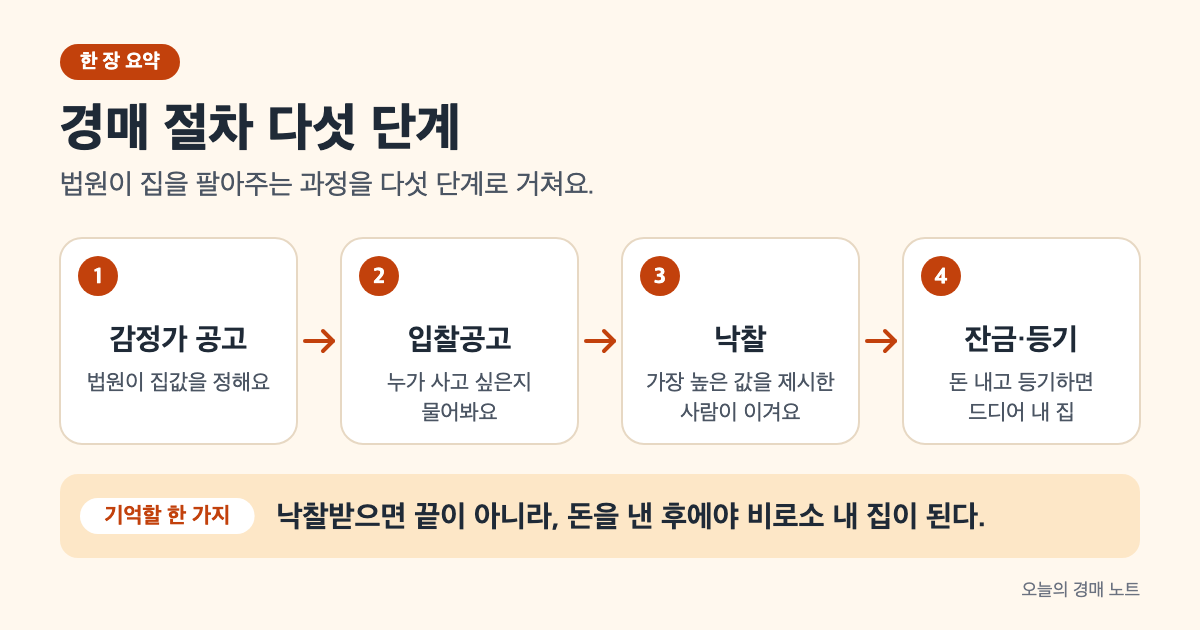
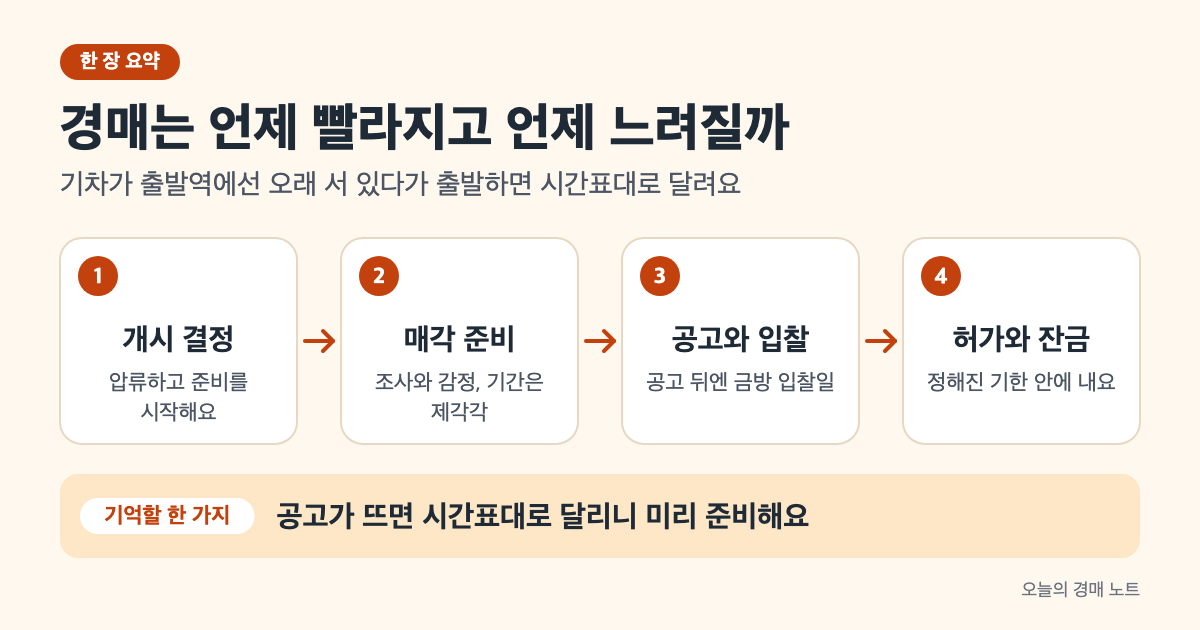
가이드 정리: 경매 절차 기간 — 잘못된 조문 인용 바로잡고 실제 기일 기록으로 재작성

diff --git a/content/guide/real-estate-auction-process/index.md b/content/guide/real-estate-auction-process/index.md
@@ -2,109 +2,105 @@
 title: 경매 절차, 얼마나 걸릴까
 author: rich-batch
 date: 2026-09-19
-lastmod: 2026-09-19
+lastmod: 2026-10-11
 draft: true
 volatile: false
 categories: ["경매 절차"]
-tags: [경매 절차, 부동산 경매, 매각기일, 낙찰, 잔금, 명도, 타임라인]
-description: 경매는 감정가 공고부터 등기까지 최소 2~3개월 걸리며, 각 단계마다 놓치면 안 될 기한이 있습니다.
+tags: [경매 절차, 부동산 경매, 매각기일, 배당요구종기, 매각허가결정, 대금지급기한, 타임라인]
+description: 법원 경매는 경매개시결정부터 첫 매각기일까지 법정 기한이 없어 몇 달이 걸리고, 매각공고부터 잔금까지는 법이 정한 기한으로 움직입니다. 단계별 기한을 조문과 실제 사건의 기일 기록으로 봅니다.
 cover:
   image: "eli5-overview.png"
-  alt: "부동산 경매 절차를 감정가 공고부터 소유권 등기까지 다섯 단계로 보여주는 타임라인"
-  caption: "낙찰받으면 끝이 아니라, 돈을 낸 후 등기가 완성되어야 비로소 내 집이 된다."
+  alt: "경매개시결정, 매각 준비, 매각공고와 입찰, 허가 확정과 잔금의 네 단계를 시간 순서로 이은 흐름도"
+  caption: "앞쪽 준비 기간은 사건마다 다르고, 공고 이후는 법이 정한 기한으로 움직입니다"
 showToc: true
 TocOpen: true
 ---
 
-경매를 결심했을 때 제일 먼저 나는 질문은 "언제쯤 그 집에 들어갈 수 있을까?"입니다. 감정가가 나오는 데 며칠, 입찰 공고부터 입찰까지 며칠, 그 사이사이에 뭘 해야 하는지 모르면 기회를 놓칩니다. 자신도 모르게 중요한 기한을 지나가기도 합니다. 이 글의 수치는 2026년 9월 19일 기준 법령 원문으로 확인했습니다.
+법원 경매의 시간표는 두 부분으로 나뉩니다. 경매개시결정부터 첫 매각기일까지는 법에 정해진 기간이 없어 사건마다 몇 달씩 걸리고, 매각공고가 나온 뒤부터 잔금까지는 법이 정한 기한대로 움직여요. 입찰자가 신경 써야 할 건 뒤쪽입니다. 공고는 매각기일 2주 전까지 나오고([민사집행규칙 제56조](https://www.law.go.kr/법령/민사집행규칙/제56조)), 낙찰되면 매각허가결정 확정 후 1개월 안에 잔금을 내야 하거든요([민사집행규칙 제78조](https://www.law.go.kr/법령/민사집행규칙/제78조)).
 
-경매는 여러 단계가 정해진 순서대로 진행되는데, 각 단계마다 법원이 정한 기간이 있습니다. 감정가가 결정되는 단계 → 입찰이 가능해지는 단계 → 낙찰 → 잔금 → 등기·명도까지, 각각에 기한이 정해져 있다는 뜻입니다. 이 기간들을 타임라인으로 정리하면 지금 어디 단계인지, 다음에 뭘 준비해야 하는지가 명확해집니다.
+이 글은 2026년 10월 11일 기준 법령 원문과, 이 블로그가 법원경매정보에서 조회한 실제 사건의 기일 기록으로 단계마다 걸리는 시간을 정리했습니다. 유찰이 거듭되면 회차마다 몇 주씩 늘어나는 것도 실제 기록으로 보여 드릴게요.
 
 > **핵심 요약**
-> - 경매는 감정가 공고부터 등기까지 최소 2~3개월 소요되며([민사집행규칙 제36조](https://www.law.go.kr/법령/민사집행규칙/제36조), [제53조](https://www.law.go.kr/법령/민사집행규칙/제53조))
-> - 각 단계별로 이 일을 반드시 해야 하는 시점이 있고, 놓치면 다음 단계가 뒤로 밀립니다
-> - "낙찰받았으니 이제 내 것"이 아니라 잔금을 낸 뒤 등기가 완성되어야 법적 소유자가 됩니다([민사집행법 제135조](https://www.law.go.kr/법령/민사집행법/제135조))
+> - 매각공고(매각기일 2주 전) → 매각결정기일(1주 안) → 즉시항고 기간(1주) → 잔금(확정 후 1개월 안) 순서라, 첫 회차에 낙찰되면 공고부터 잔금까지 대략 2개월 안팎입니다([민사집행법 제109조](https://www.law.go.kr/법령/민사집행법/제109조) · [민사집행규칙 제78조](https://www.law.go.kr/법령/민사집행규칙/제78조)).
+> - 유찰되면 최저가를 낮춰 새 기일을 잡으니 회차마다 시간이 더해집니다([민사집행법 제119조](https://www.law.go.kr/법령/민사집행법/제119조)).
 
-## 감정가가 나올 때까지, 최소 2주
+## 경매개시결정부터 첫 매각기일까지: 정해진 기간이 없다
 
-경매의 맨 처음은 감정평가입니다. 법원이 부동산을 경매에 부치면 감정평가사가 나가 그 집의 값어치를 정합니다. 이 감정가가 나온 후 법원은 최소 2주 동안 그 감정가를 공고해야 합니다([민사집행규칙 제36조](https://www.law.go.kr/법령/민사집행규칙/제36조)). 이것을 "감정가 공고 기간"이라고 부르는데, 이 기간이 끝나야 다음 단계인 입찰 공고가 가능해집니다.
+경매는 법원이 경매개시결정을 하면서 부동산을 압류하는 데서 시작합니다([민사집행법 제83조](https://www.law.go.kr/법령/민사집행법/제83조)). 법원사무관은 바로 그 사실을 등기부에 기입하도록 촉탁하고([민사집행법 제94조](https://www.law.go.kr/법령/민사집행법/제94조)), 법원은 첫 매각기일 이전으로 배당요구의 종기를 정해 공고해요([민사집행법 제84조](https://www.law.go.kr/법령/민사집행법/제84조)).
 
-물건을 찾는 입장에서는 법원경매정보나 온비드를 자주 들여다보다가 눈에 띄는 물건이 있으면, 그 물건은 이미 감정가 공고를 지난 상태일 겁니다. 매각기일 공고문을 읽을 때는 이미 다음 단계 준비가 막 시작되는 시점이라는 뜻입니다.
+그다음 법원은 집행관에게 현황조사를 명하고([민사집행법 제85조](https://www.law.go.kr/법령/민사집행법/제85조)), 감정인에게 평가를 맡겨 최저매각가격을 정합니다([민사집행법 제97조](https://www.law.go.kr/법령/민사집행법/제97조)). 이 준비 단계에는 법정 기간이 없어서 사건마다 걸리는 시간이 크게 달라요. 입찰자가 물건을 처음 보게 되는 건 이 준비가 다 끝나고 매각공고가 나온 뒤입니다.
 
-## 입찰 공고부터 입찰까지, 최소 3주
+## 매각공고부터 입찰까지: 2주
 
-감정가 공고 기간이 끝나면 법원은 입찰 공고를 합니다. 입찰 공고부터 실제 입찰이 가능해지는 시점까지는 최소 3주가 지나야 합니다([민사집행규칙 제53조](https://www.law.go.kr/법령/민사집행규칙/제53조)). 이 기간 동안 입찰에 참여하려는 사람들이 물건을 봐야 하고, 등기부·용도지역·명도 가능성 등을 확인해야 한다는 뜻입니다.
+공고가 나오면 시계가 빨라집니다. 법원은 매각기일 2주 전까지 공고해야 하고([민사집행규칙 제56조](https://www.law.go.kr/법령/민사집행규칙/제56조)), 매각물건명세서·현황조사보고서·감정평가서 사본은 1주 전까지 비치해야 해요([민사집행규칙 제55조](https://www.law.go.kr/법령/민사집행규칙/제55조)). 공고를 본 날부터 입찰일까지 길어야 2주 남짓이고, 그 안에 서류를 읽고 현장을 보고 자금 계획까지 세워야 합니다.
 
-기간입찰인 경우 입찰 기간이 추가로 1주~1개월 더 주어집니다([민사집행규칙 제69조](https://www.law.go.kr/법령/민사집행규칙/제69조)). 예를 들어 9월 1일에 입찰 공고가 나면, 9월 22일부터 입찰이 가능합니다. 기간입찰이라면 9월 22일부터 10월 22일까지 한 달간 입찰표를 낼 수 있고, 기일입찰이라면 9월 22일 하루에만 입찰을 받습니다.
+입찰 방식에 따라 일정이 조금 다릅니다. 기일입찰은 매각기일 당일 법정에서 입찰하고 바로 개찰해요. 기간입찰은 1주 이상 1개월 이하의 입찰기간을 두고, 매각기일은 그 기간이 끝난 뒤 1주 안의 날로 정합니다([민사집행규칙 제68조](https://www.law.go.kr/법령/민사집행규칙/제68조)). 기간입찰의 입찰표는 봉투에 넣어 집행관에게 내거나 등기우편으로 보내요([민사집행규칙 제69조](https://www.law.go.kr/법령/민사집행규칙/제69조)).
 
-이 기간은 단순히 기다리는 시간이 아니라 결정하는 시간입니다. 물건을 보고, 주변을 돌아봐야 합니다. [경험 추가 필요: 등기부에서 확인했던 임차권 정보와 판단 과정]. 입찰가를 정하는 모든 일이 이 3주 사이에 끝나야 합니다.
+## 낙찰부터 잔금까지: 법이 정한 순서
 
-## 입찰에서 개찰까지, 당일 또는 기간별 진행
+최고가매수신고인이 정해지면 다음은 법이 순서를 정해 둔 구간입니다.
 
-입찰은 두 가지 방식이 있습니다([민사집행규칙 제68조](https://www.law.go.kr/법령/민사집행규칙/제68조), [제69조](https://www.law.go.kr/법령/민사집행규칙/제69조)).
+| 단계 | 기한 | 근거 |
+|---|---|---|
+| 매각결정기일 | 매각기일부터 1주 이내 | 민사집행법 제109조 |
+| 매각허가결정 확정 | 즉시항고 없으면 고지일부터 1주 지나 확정 | 민사집행법 제15조·제126조 |
+| 대금지급기한 | 확정일부터 1개월 안의 날로 법원이 지정 | 민사집행법 제142조, 민사집행규칙 제78조 |
+| 소유권 취득 | 매각대금을 다 낸 때 | 민사집행법 제135조 |
+| 인도명령 신청 | 대금 납부 후 6개월 이내 | 민사집행법 제136조 |
 
-**기일입찰**: 매각기일이라는 정해진 날에 법원에 출석해 입찰표를 직접 내고, 그 자리에서 바로 개찰하는 방식입니다. 아침에 입찰표를 내면 그 자리에서 누가 최고가를 썼는지 알게 됩니다.
+출처: [민사집행법 제109조](https://www.law.go.kr/법령/민사집행법/제109조) · [제15조](https://www.law.go.kr/법령/민사집행법/제15조) · [제126조](https://www.law.go.kr/법령/민사집행법/제126조) · [제142조](https://www.law.go.kr/법령/민사집행법/제142조) · [민사집행규칙 제78조](https://www.law.go.kr/법령/민사집행규칙/제78조) · [민사집행법 제135조](https://www.law.go.kr/법령/민사집행법/제135조) · [제136조](https://www.law.go.kr/법령/민사집행법/제136조) (2026년 10월 11일 기준)
 
-**기간입찰**: 정해진 기간([1주~1개월](https://www.law.go.kr/법령/민사집행규칙/제69조)) 동안 입찰표를 직접 내거나 등기우편으로 보내면, 기간이 끝난 뒤 정해진 매각기일에 법원에서 개찰하는 방식입니다([민사집행규칙 제69조](https://www.law.go.kr/법령/민사집행규칙/제69조)). 입찰표를 냈어도 개찰 결과는 나중에 나옵니다.
+이 기한을 이으면 첫 회차에 낙찰된 경우의 대략적인 시간표가 나옵니다. 공고에서 매각기일까지 2주, 매각결정기일까지 1주, 항고 기간 1주, 그 뒤 잔금까지 1개월 안이라 공고부터 잔금까지 2개월 안팎이에요. 잔금을 내는 순간 소유권을 얻고, 등기는 법원이 촉탁하니 매수인이 등기소에 갈 필요는 없습니다([민사집행법 제144조](https://www.law.go.kr/법령/민사집행법/제144조)). 점유자가 있으면 그때부터 인도명령 기한 6개월이 흐르기 시작하고요.
 
-어느 방식인지는 매각기일 공고문에 명시되어 있으니, 입찰 공고를 받으면 제일 먼저 기일입찰인지 기간입찰인지 확인하는 게 첫 단계입니다. 입찰 방식에 따라 준비 기간이 완전히 달라지기 때문입니다.
+## 실제 사건으로 보면: 유찰이 시간을 늘린다
 
-## 낙찰 후 잔금까지, 얼마나 될까
+법정 기한은 최소한의 틀일 뿐, 실제 사건은 훨씬 오래 걸립니다. 서울 구로구 오류동의 한 아파트 강제경매(서울남부지방법원 2025타경10947) 기일 기록을 보면 이렇습니다([법원경매정보](https://www.courtauction.go.kr/)).
 
-이게 가장 많이 헷갈리는 구간입니다. 개찰이 끝나고 최고가를 쓴 사람(최고가매수신고인)이 결정되면, 그 사람은 정해진 기한까지 잔금을 내야 합니다. 이 기한은 법령에서 "정부고시 기간"으로 정해져 있는데([민사집행법 제142조](https://www.law.go.kr/법령/민사집행법/제142조)), 일반적으로는 매각기일부터 약 1개월 내외입니다.
+| 시점 | 일어난 일 | 최저매각가격 |
+|---|---|---|
+| 2025년 7월 14일 | 경매개시결정 | — |
+| 2025년 10월 14일 | 배당요구 종기 | — |
+| 2026년 3월 18일 | 1회차 매각기일, 유찰 | 3억 500만 원 |
+| 2026년 4월~10월 | 4월 23일, 6월 9일, 7월 23일, 8월 26일, 10월 1일 모두 유찰 | 회차마다 20%씩 낮아져 9,994만 2천 원까지 |
+| 2026년 11월 4일 | 7회차 매각기일 예정 | 7,995만 4천 원 |
 
-잔금을 내는 방법은 여러 가지입니다. 현금을 직접 내기, 은행 계좌로 송금하기, 경락잔금대출을 받아 내기 등이 있습니다. 중요한 건 이 기한을 놓치면 안 된다는 점입니다. 잔금을 못 내면 앞서 낸 보증금이 몰수되고, 물건은 재매각 절차로 들어갑니다([민사집행법 제138조](https://www.law.go.kr/법령/민사집행법/제138조)).
+출처: [법원경매정보](https://www.courtauction.go.kr/) 서울남부지방법원 2025타경10947 기일 내역 (2026년 10월 11일 기준)
 
-> **주의** 낙찰받은 후 "이제 내 것"이라고 생각하기 쉽지만, 실제로 법적 소유자가 되려면 잔금을 다 낸 뒤 소유권 등기가 끝나야 합니다([민사집행법 제135조](https://www.law.go.kr/법령/민사집행법/제135조)). 잔금을 내는 것도 중요하지만, 그 다음 등기까지 완성되어야 비로소 끝입니다.
-
-## 잔금 낸 후 소유권 등기까지
-
-잔금을 내고 나면 두 가지가 동시에 진행됩니다. 하나는 법원의 등기 절차이고, 다른 하나는 점유자를 내보내는(명도) 절차입니다.
-
-**등기**: 잔금을 내면 법원에서 등기소에 소유권 등기를 신청합니다. 일반적으로 [1~2주](https://www.law.go.kr/법령/민사집행법/제135조) 정도면 등기가 완성되지만, 등기소의 업무량에 따라 달라질 수 있습니다.
-
-**명도**: 그 집에 이미 살고 있는 사람이 있으면 저절로 나가지 않습니다. 매수인이 대금을 낸 뒤 6개월 안에 법원에 인도명령을 신청해야 합니다([민사집행법 제136조](https://www.law.go.kr/법령/민사집행법/제136조)). 인도명령이 나면 점유자를 강제로 내보낼 수 있지만, 점유자가 대항력 있는 임차인이라면 인도명령 자체가 통하지 않을 수 있습니다. 이 경우 별도의 명도소송을 진행해야 합니다.
-
-| 단계 | 기간/기한 | 해야 할 일 | 근거 |
-|---|---|---|---|
-| 1. 감정가 공고 | 최소 2주 | 감정가 확인, 물건 파악 | [민사집행규칙 제36조](https://www.law.go.kr/법령/민사집행규칙/제36조) |
-| 2. 입찰 공고~입찰 | 최소 3주 | 물건 확인, 등기부 검토, 입찰가 결정 | [민사집행규칙 제53조](https://www.law.go.kr/법령/민사집행규칙/제53조) |
-| 3. 입찰 방식별 진행 | 기일: 당일 / 기간: [1주~1개월](https://www.law.go.kr/법령/민사집행규칙/제69조) | 입찰 실행, 개찰 | [민사집행규칙 제68조](https://www.law.go.kr/법령/민사집행규칙/제68조), [제69조](https://www.law.go.kr/법령/민사집행규칙/제69조) |
-| 4. 낙찰~잔금 | 약 1개월(정부고시 기간) | 자금 준비, 잔금 납입 | [민사집행법 제142조](https://www.law.go.kr/법령/민사집행법/제142조) |
-| 5. 소유권 등기 | [1~2주](https://www.law.go.kr/법령/민사집행법/제135조) | 등기 완성 기다리기 | [민사집행법 제135조](https://www.law.go.kr/법령/민사집행법/제135조) |
-
-출처: [민사집행규칙](https://www.law.go.kr/법령/민사집행규칙/제36조), [민사집행법](https://www.law.go.kr/법령/민사집행법/제135조) (2026년 9월 19일 기준)
-
-## 다음 단계별로 확인할 것
-
-지금 단계가 어디인지 확인하고 다음을 준비하세요. 감정가 공고가 나왔다면 입찰 공고를 기다리면서 물건을 봐야 하고, 입찰 공고가 나왔다면 입찰 방식을 확인한 후 입찰 표 양식을 받아야 합니다. 낙찰받았다면 잔금 기한을 확인하고 자금 계획을 세워야 합니다. 각 단계마다 놓치면 안 될 일이 정해져 있고, 법원은 이 기한들을 정해진 대로만 진행합니다.
+경매개시결정에서 첫 매각기일까지 8개월이 걸렸고, 그 뒤로 유찰 한 번에 5~7주씩 더해졌어요. 유찰되면 법원이 최저가를 낮춰 새 기일을 정하기 때문입니다([민사집행법 제119조](https://www.law.go.kr/법령/민사집행법/제119조)). 이 물건은 매각물건명세서에 매수인에게 대항할 수 있는 주택임차권등기가 있다고 적혀 있었는데, 배당에서 다 못 받은 보증금을 낙찰자가 떠안을 수 있는 물건이라 여섯 번 연속 아무도 입찰하지 않은 것으로 보여요.
 
 ## 자주 묻는 질문
 
-### Q. 감정가 공고부터 낙찰받기까지 보통 얼마나 걸리나요?
-감정가 공고 최소 2주 + 입찰 공고부터 입찰까지 최소 3주 + 입찰 방식별 진행 기간(기일입찰은 당일, 기간입찰은 1주~1개월)을 합치면 최소 5주부터 최대 2개월 정도입니다([민사집행규칙 제36조](https://www.law.go.kr/법령/민사집행규칙/제36조), [제53조](https://www.law.go.kr/법령/민사집행규칙/제53조)). 공고 기간을 연장하거나 유찰되어 재매각되는 경우도 있으니, 법원경매정보에서 매각기일 공고문으로 정확한 일정을 확인하세요.
+### Q. 경매가 시작되고 나서 입찰까지 보통 얼마나 걸리나요?
 
-### Q. 낙찰받고 나서 그 집에 들어갈 수 있는 건 언제인가요?
-잔금을 낸 후 소유권 등기가 완성되면 법적으로는 그 집의 주인이 됩니다([민사집행법 제135조](https://www.law.go.kr/법령/민사집행법/제135조)). 다만 점유자가 있다면 인도명령을 신청해 확정된 후에야 강제로 내보낼 수 있고, 점유자가 대항력 있는 임차인이라면 더 오래 걸릴 수 있습니다([민사집행법 제136조](https://www.law.go.kr/법령/민사집행법/제136조)).
+법에 정해진 기간은 없습니다. 경매개시결정 뒤 현황조사와 감정, 배당요구 종기를 거쳐 첫 매각기일이 잡히는데([민사집행법 제84조](https://www.law.go.kr/법령/민사집행법/제84조)), 위 오류동 사건은 8개월이 걸렸어요. 입찰자 입장에서 중요한 건 공고가 나온 뒤 2주라는 점입니다.
 
-### Q. 기일입찰과 기간입찰 중 어느 쪽이 낫나요?
-둘 다 장단점이 있습니다. 기일입찰은 당일 개찰되어 빠르지만, 법원에 직접 출석해야 합니다. 기간입찰은 우편으로 보낼 수 있지만, 기간이 길어서 마음이 바뀌거나 기한을 놓치기 쉽습니다. 자신의 상황에 맞춰 선택하면 됩니다([민사집행규칙 제68조](https://www.law.go.kr/법령/민사집행규칙/제68조), [제69조](https://www.law.go.kr/법령/민사집행규칙/제69조)).
+### Q. 낙찰받고 나서 잔금까지는 얼마나 여유가 있나요?
 
-### Q. 잔금 기한을 못 지키면 어떻게 되나요?
-잔금 기한을 못 지키면 앞서 낸 보증금은 몰수되고, 그 물건은 재매각 절차로 진행됩니다([민사집행법 제138조](https://www.law.go.kr/법령/민사집행법/제138조)). 재매각에서 떨어진 금액이 처음 낙찰가보다 적으면 그 차액을 내야 할 수도 있습니다. 입찰 전에 반드시 잔금 자금을 확보하세요.
+매각기일부터 매각결정기일까지 1주 안, 그 결정이 확정되기까지 항고가 없으면 1주, 확정일부터 1개월 안의 대금지급기한까지예요([민사집행법 제109조](https://www.law.go.kr/법령/민사집행법/제109조) · [민사집행규칙 제78조](https://www.law.go.kr/법령/민사집행규칙/제78조)). 대출을 받는다면 심사를 이 안에 끝내야 하니, 낙찰 전에 사전 상담을 받아 두는 게 안전합니다.
 
-### Q. 등기까지 완성되는 데 보통 얼마나 걸리나요?
-소유권 등기는 일반적으로 잔금 납입 후 1~2주 정도면 완성됩니다. 다만 등기소의 업무량이나 특수한 권리(채무, 가등기 등)가 있으면 더 오래 걸릴 수 있습니다. 명도가 필요한 경우 인도명령까지 별도로 1~3개월이 더 소요될 수 있습니다([민사집행법 제136조](https://www.law.go.kr/법령/민사집행법/제136조)).
+### Q. 잔금을 못 내면 어떻게 되나요?
+
+차순위매수신고인이 없으면 법원이 재매각을 명하고, 전 매수인은 재매각에 입찰할 수 없으며 보증금도 돌려받지 못합니다([민사집행법 제138조](https://www.law.go.kr/법령/민사집행법/제138조)). 재매각기일 3일 전까지 대금과 지연이자, 절차비용을 내면 재매각이 취소되긴 해요.
 
 ## 참고 자료
 
-- [민사집행규칙 제36조](https://www.law.go.kr/법령/민사집행규칙/제36조) — 감정가 공고 기간(최소 2주), 현행 시행 2026-02-01 (2026-09-19 확인)
-- [민사집행규칙 제53조](https://www.law.go.kr/법령/민사집행규칙/제53조) — 입찰 공고부터 입찰까지 기간(최소 3주), 현행 시행 2026-02-01 (2026-09-19 확인)
-- [민사집행규칙 제62조](https://www.law.go.kr/법령/민사집행규칙/제62조) — 입찰표 작성·제출, 현행 시행 2026-02-01 (2026-09-19 확인)
-- [민사집행규칙 제63조](https://www.law.go.kr/법령/민사집행규칙/제63조) — 입찰 보증금(최저매각가격의 1/10), 현행 시행 2026-02-01 (2026-09-19 확인)
-- [민사집행규칙 제68조](https://www.law.go.kr/법령/민사집행규칙/제68조) — 기일입찰, 현행 시행 2026-02-01 (2026-09-19 확인)
-- [민사집행규칙 제69조](https://www.law.go.kr/법령/민사집행규칙/제69조) — 기간입찰, 현행 시행 2026-02-01 (2026-09-19 확인)
-- [민사집행법 제135조](https://www.law.go.kr/법령/민사집행법/제135조) — 매수인의 소유권 취득(매각대금 완납 시), 현행 시행 2026-02-01 (2026-09-19 확인)
-- [민사집행법 제136조](https://www.law.go.kr/법령/민사집행법/제136조) — 인도명령, 현행 시행 2026-02-01 (2026-09-19 확인)
-- [민사집행법 제138조](https://www.law.go.kr/법령/민사집행법/제138조) — 낙찰자의 불이행 시 재매각, 현행 시행 2026-02-01 (2026-09-19 확인)
-- [민사집행법 제142조](https://www.law.go.kr/법령/민사집행법/제142조) — 잔금 기한(정부고시 기간), 현행 시행 2026-02-01 (2026-09-19 확인)
+- [민사집행법 제15조 · 즉시항고](https://www.law.go.kr/법령/민사집행법/제15조) — 고지일부터 1주 (2026-10-11 확인)
+- [민사집행법 제83조 · 경매개시결정 등](https://www.law.go.kr/법령/민사집행법/제83조) — 개시결정과 압류 (2026-10-11 확인)
+- [민사집행법 제84조 · 배당요구의 종기결정 및 공고](https://www.law.go.kr/법령/민사집행법/제84조) — 첫 매각기일 이전으로 종기 결정 (2026-10-11 확인)
+- [민사집행법 제85조 · 현황조사](https://www.law.go.kr/법령/민사집행법/제85조) — 집행관 현황조사 (2026-10-11 확인)
+- [민사집행법 제94조 · 경매개시결정의 등기](https://www.law.go.kr/법령/민사집행법/제94조) — 등기 촉탁 (2026-10-11 확인)
+- [민사집행법 제97조 · 최저매각가격의 결정](https://www.law.go.kr/법령/민사집행법/제97조) — 감정인 평가 참작 (2026-10-11 확인)
+- [민사집행법 제109조 · 매각결정기일](https://www.law.go.kr/법령/민사집행법/제109조) — 매각기일부터 1주 이내 (2026-10-11 확인)
+- [민사집행법 제119조 · 새 매각기일](https://www.law.go.kr/법령/민사집행법/제119조) — 유찰 시 최저매각가격 저감 (2026-10-11 확인)
+- [민사집행법 제126조 · 매각허가여부의 결정선고](https://www.law.go.kr/법령/민사집행법/제126조) — 확정되어야 효력 (2026-10-11 확인)
+- [민사집행법 제135조 · 소유권의 취득시기](https://www.law.go.kr/법령/민사집행법/제135조) — 대금 완납 시 (2026-10-11 확인)
+- [민사집행법 제136조 · 부동산의 인도명령 등](https://www.law.go.kr/법령/민사집행법/제136조) — 대금 납부 후 6개월 (2026-10-11 확인)
+- [민사집행법 제138조 · 재매각](https://www.law.go.kr/법령/민사집행법/제138조) — 대금 미지급 시 (2026-10-11 확인)
+- [민사집행법 제142조 · 대금의 지급](https://www.law.go.kr/법령/민사집행법/제142조) — 대금지급기한 지정 (2026-10-11 확인)
+- [민사집행법 제144조 · 매각대금 지급 뒤의 조치](https://www.law.go.kr/법령/민사집행법/제144조) — 법원의 등기 촉탁 (2026-10-11 확인)
+- [민사집행규칙 제55조 · 매각물건명세서 사본 등의 비치](https://www.law.go.kr/법령/민사집행규칙/제55조) — 매각기일 1주 전까지 (2026-10-11 확인)
+- [민사집행규칙 제56조 · 매각기일의 공고내용 등](https://www.law.go.kr/법령/민사집행규칙/제56조) — 매각기일 2주 전까지 공고 (2026-10-11 확인)
+- [민사집행규칙 제68조 · 입찰기간 등의 지정](https://www.law.go.kr/법령/민사집행규칙/제68조) — 기간입찰 1주~1월, 종료 후 1주 안 매각기일 (2026-10-11 확인)
+- [민사집행규칙 제69조 · 기간입찰에서 입찰의 방법](https://www.law.go.kr/법령/민사집행규칙/제69조) — 집행관 제출 또는 등기우편 (2026-10-11 확인)
+- [민사집행규칙 제78조 · 대금지급기한](https://www.law.go.kr/법령/민사집행규칙/제78조) — 확정일부터 1월 안의 날 (2026-10-11 확인)
+- [법원경매정보](https://www.courtauction.go.kr/) — 서울남부지방법원 2025타경10947 기일 내역 (2026-10-11 확인)

diff --git a/pipeline/guide/research/real-estate-auction-process.md b/pipeline/guide/research/real-estate-auction-process.md
@@ -42,3 +42,23 @@
 - 낙찰가 확정(매각기일) → 잔금 기한 사이의 정확한 기간(민사집행법 제142조에서 "정부고시 기간"으로 규정되어 있음 → 현재 시점에 정부고시 기간 확인 필요)
 - 등기 소요 시간 (법원/법무사 업무 기간)
 
+## 차별점
+
+차별점:
+- 이전 초안이 "감정가 공고 2주(규칙 제36조)", "입찰 공고부터 3주(규칙 제53조)", "잔금은 정부고시 기간", "등기 1~2주"처럼 조문과 맞지 않는 기한을 적었던 것을 걷어내고, 실제 조문(규칙 제55·56·68·78조, 법 제84·109·126·142조)으로 기한을 다시 세움
+- 개시결정~첫 매각기일은 법정 기간이 없다는 점과, 공고 이후 구간은 법정 기한으로 움직인다는 점을 구분
+- 이 블로그가 법원경매정보에서 조회한 실제 사건(서울남부 2025타경10947)의 기일 기록으로 개시결정→첫 매각 8개월, 유찰 한 번당 5~7주가 더해지는 실제 시간을 보여 줌
+
+## 2026-10-11 고쳐쓰기 — 법령 원문과 실제 기일 기록으로 전면 재작성
+
+| # | 확인한 내용 | 원문 인용 | 출처 | URL | 읽은 방법 |
+|---|---|---|---|---|---|
+| R1 | 이전 초안 인용 오류: 규칙 제36조는 재산조회, 제53조는 압류채권자 잉여 증명 조항 | "재산조회는 별표 ... 에 관하여 실시한다", "남을 것이 있다는 사실을 증명한 때" | 민사집행규칙 제36조·제53조 | https://www.law.go.kr/법령/민사집행규칙/제53조 | law.go.kr DRF API |
+| R2 | 개시결정과 압류, 등기 촉탁 | "경매절차를 개시하는 결정에는 동시에 그 부동산의 압류를 명하여야 한다" | 민사집행법 제83조·제94조 | https://www.law.go.kr/법령/민사집행법/제83조 , https://www.law.go.kr/법령/민사집행법/제94조 | law.go.kr DRF API |
+| R3 | 배당요구 종기는 첫 매각기일 이전 | "배당요구를 할 수 있는 종기를 첫 매각기일 이전으로 정한다" | 민사집행법 제84조 | https://www.law.go.kr/법령/민사집행법/제84조 | law.go.kr DRF API |
+| R4 | 현황조사(집행관), 최저매각가격(감정 참작) | (조문 본문) | 민사집행법 제85조·제97조 | https://www.law.go.kr/법령/민사집행법/제85조 , https://www.law.go.kr/법령/민사집행법/제97조 | law.go.kr DRF API |
+| R5 | 공고 매각기일 2주 전, 서류 비치 1주 전 | "매각기일 ... 의 2주 전까지 ... 공고하여야 한다" | 민사집행규칙 제55조·제56조 | https://www.law.go.kr/법령/민사집행규칙/제56조 , https://www.law.go.kr/법령/민사집행규칙/제55조 | law.go.kr DRF API |
+| R6 | 기간입찰 1주 이상 1월 이하, 매각기일은 종료 후 1주 안 / 봉투 제출·등기우편 | "입찰기간은 1주 이상 1월 이하의 범위 안에서 정하고, 매각기일은 입찰기간이 끝난 후 1주 안의 날로" | 민사집행규칙 제68조·제69조 | https://www.law.go.kr/법령/민사집행규칙/제68조 , https://www.law.go.kr/법령/민사집행규칙/제69조 | law.go.kr DRF API |
+| R7 | 매각결정기일 1주 이내, 즉시항고 1주, 결정은 확정되어야 효력 | "매각결정기일은 매각기일부터 1주 이내로 정하여야 한다" | 민사집행법 제109조·제15조·제126조 | https://www.law.go.kr/법령/민사집행법/제109조 , https://www.law.go.kr/법령/민사집행법/제15조 , https://www.law.go.kr/법령/민사집행법/제126조 | law.go.kr DRF API |
+| R8 | 대금지급기한 확정일부터 1월 안, 소유권 대금 완납 시, 인도명령 6개월, 재매각, 등기 촉탁, 유찰 시 저감 | (조문 본문) | 민사집행법 제142·135·136·138·144·119조, 규칙 제78조 | https://www.law.go.kr/법령/민사집행법/제142조 , https://www.law.go.kr/법령/민사집행규칙/제78조 , https://www.law.go.kr/법령/민사집행법/제135조 , https://www.law.go.kr/법령/민사집행법/제136조 , https://www.law.go.kr/법령/민사집행법/제138조 , https://www.law.go.kr/법령/민사집행법/제144조 , https://www.law.go.kr/법령/민사집행법/제119조 | law.go.kr DRF API |
+| 사례 | 서울남부 2025타경10947(오류동 루체비스타): 접수 2025-07-11, 개시 2025-07-14, 배당요구종기 2025-10-14, 매각기일 2026-03-18·04-23·06-09·07-23·08-26·10-01 모두 유찰(최저 305,000,000→99,942,000, 20%씩), 2026-11-04 최저 79,954,000 예정, 명세서 "매수인에게 대항할 수 있는 주택임차권등기 있음" | 법원경매정보 사건 상세·물건 상세(tools/analysis/fetch-court-result.mjs) | 법원경매정보 | https://www.courtauction.go.kr/ | 도구 조회 2026-10-11 |
